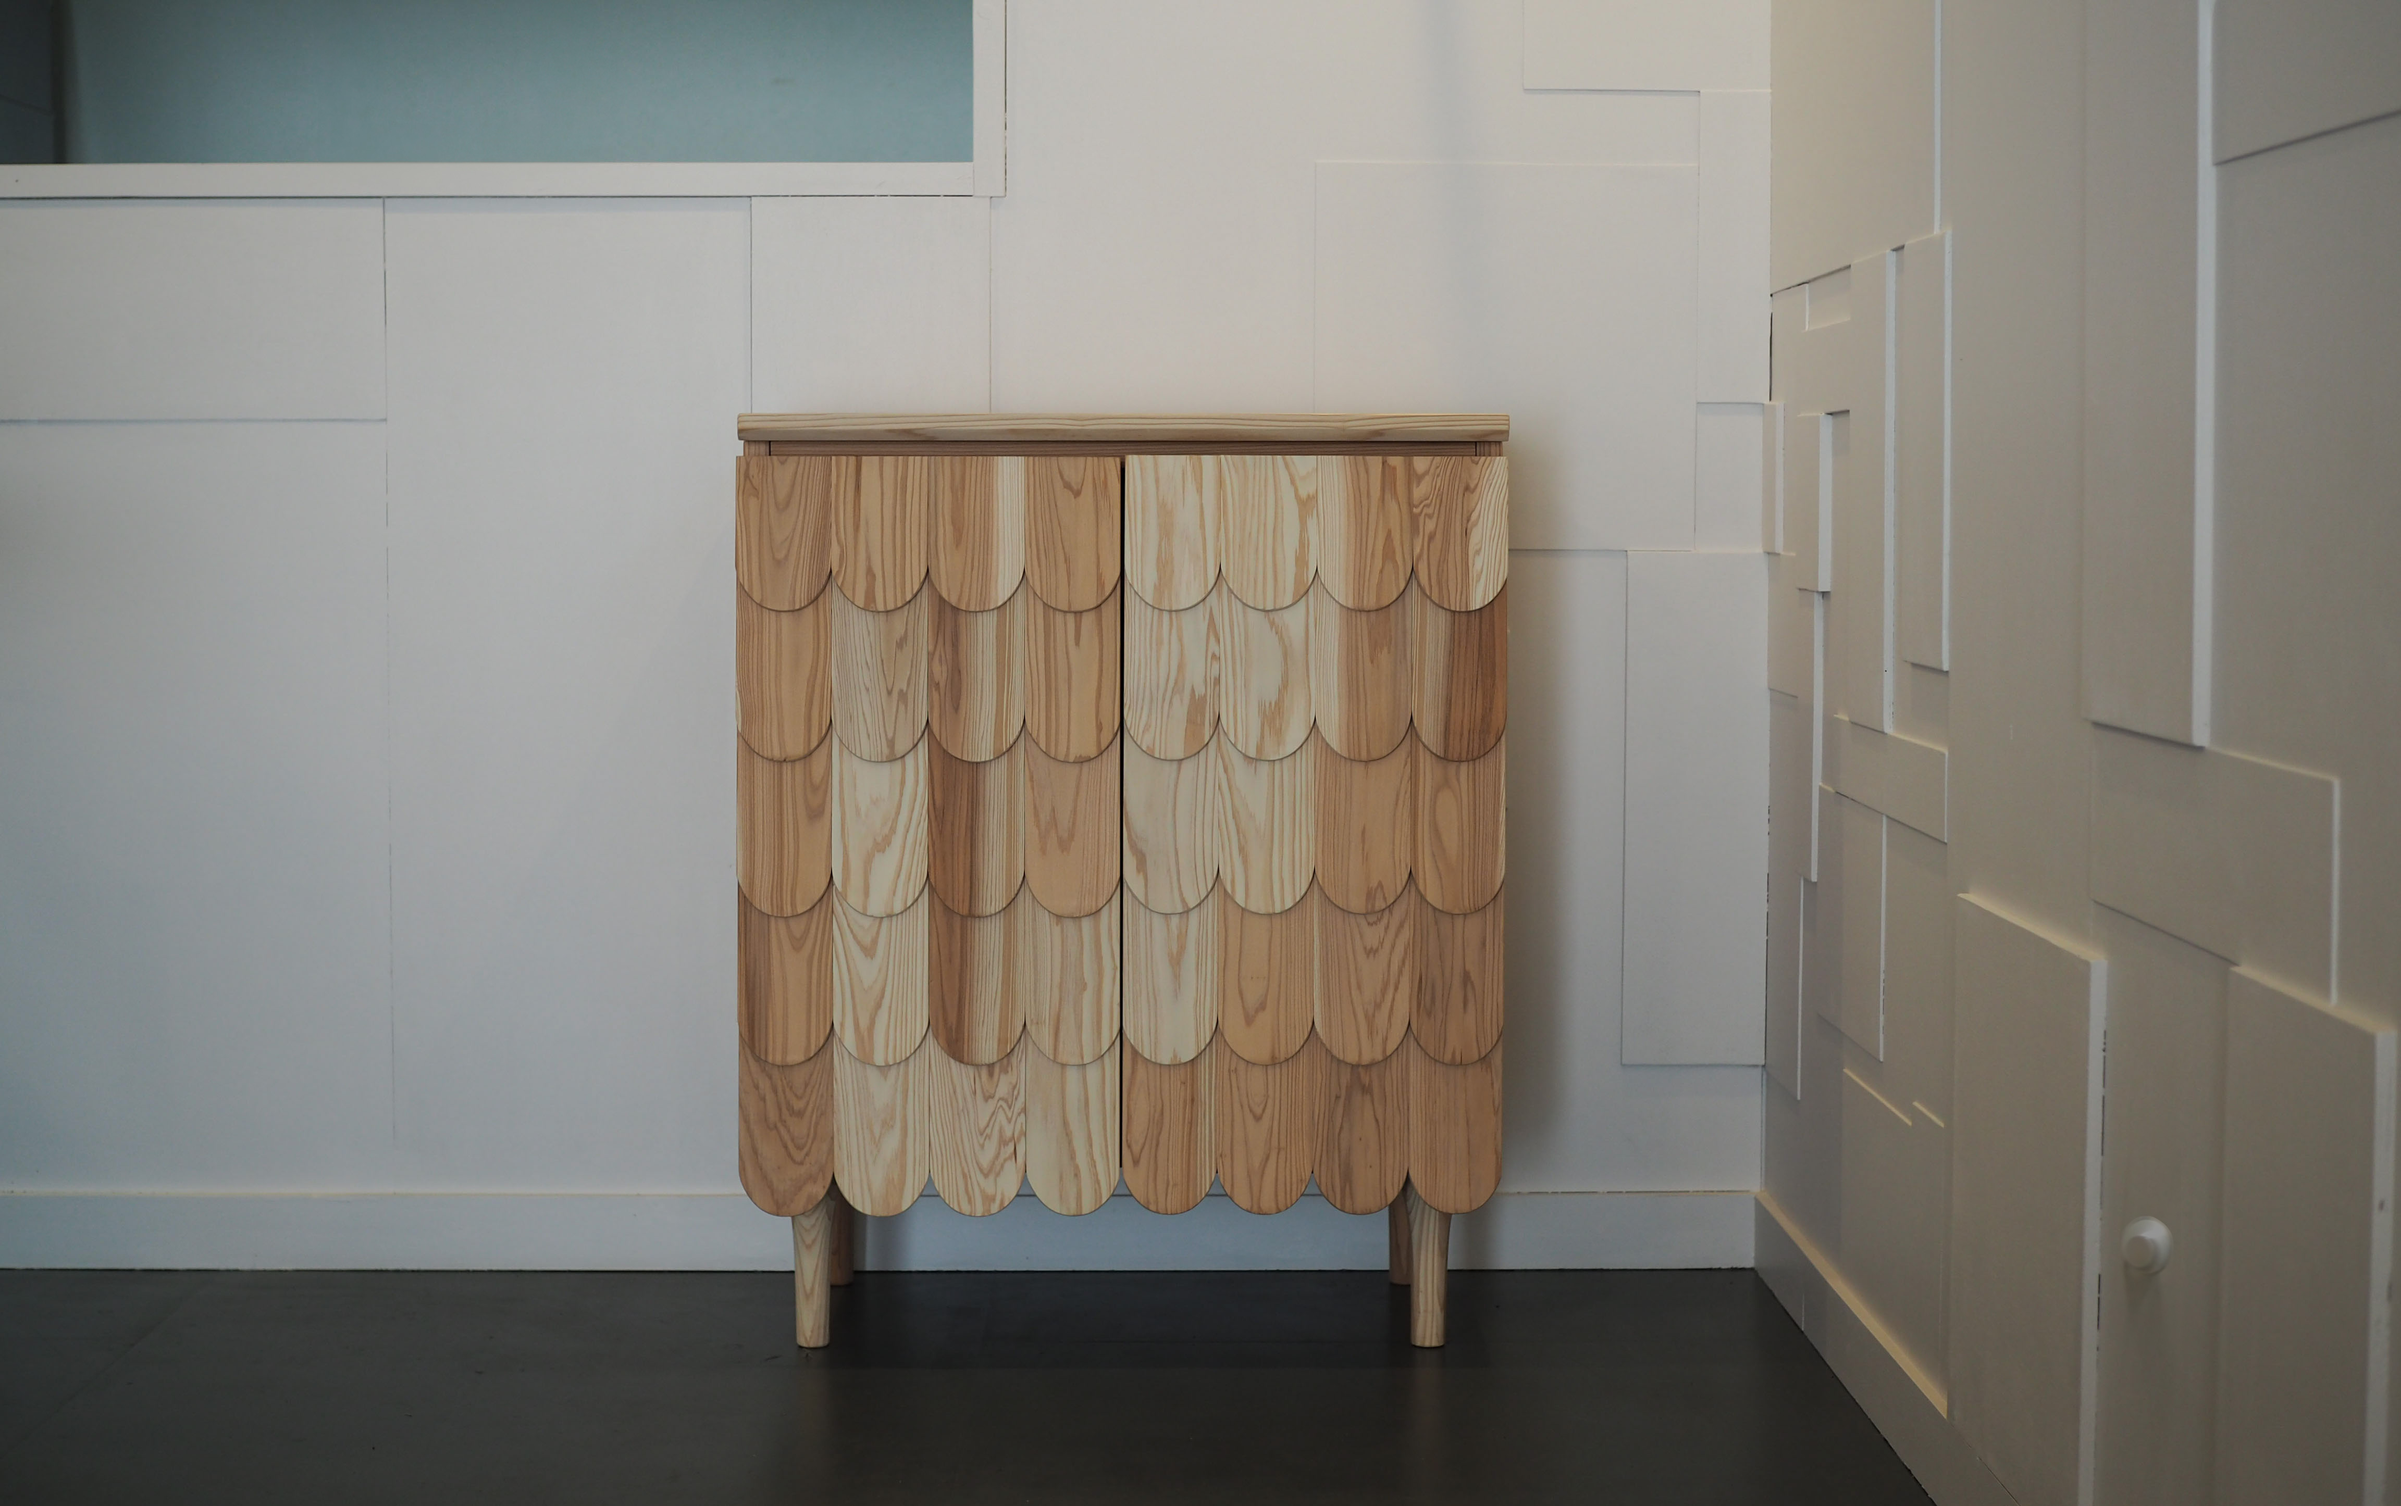
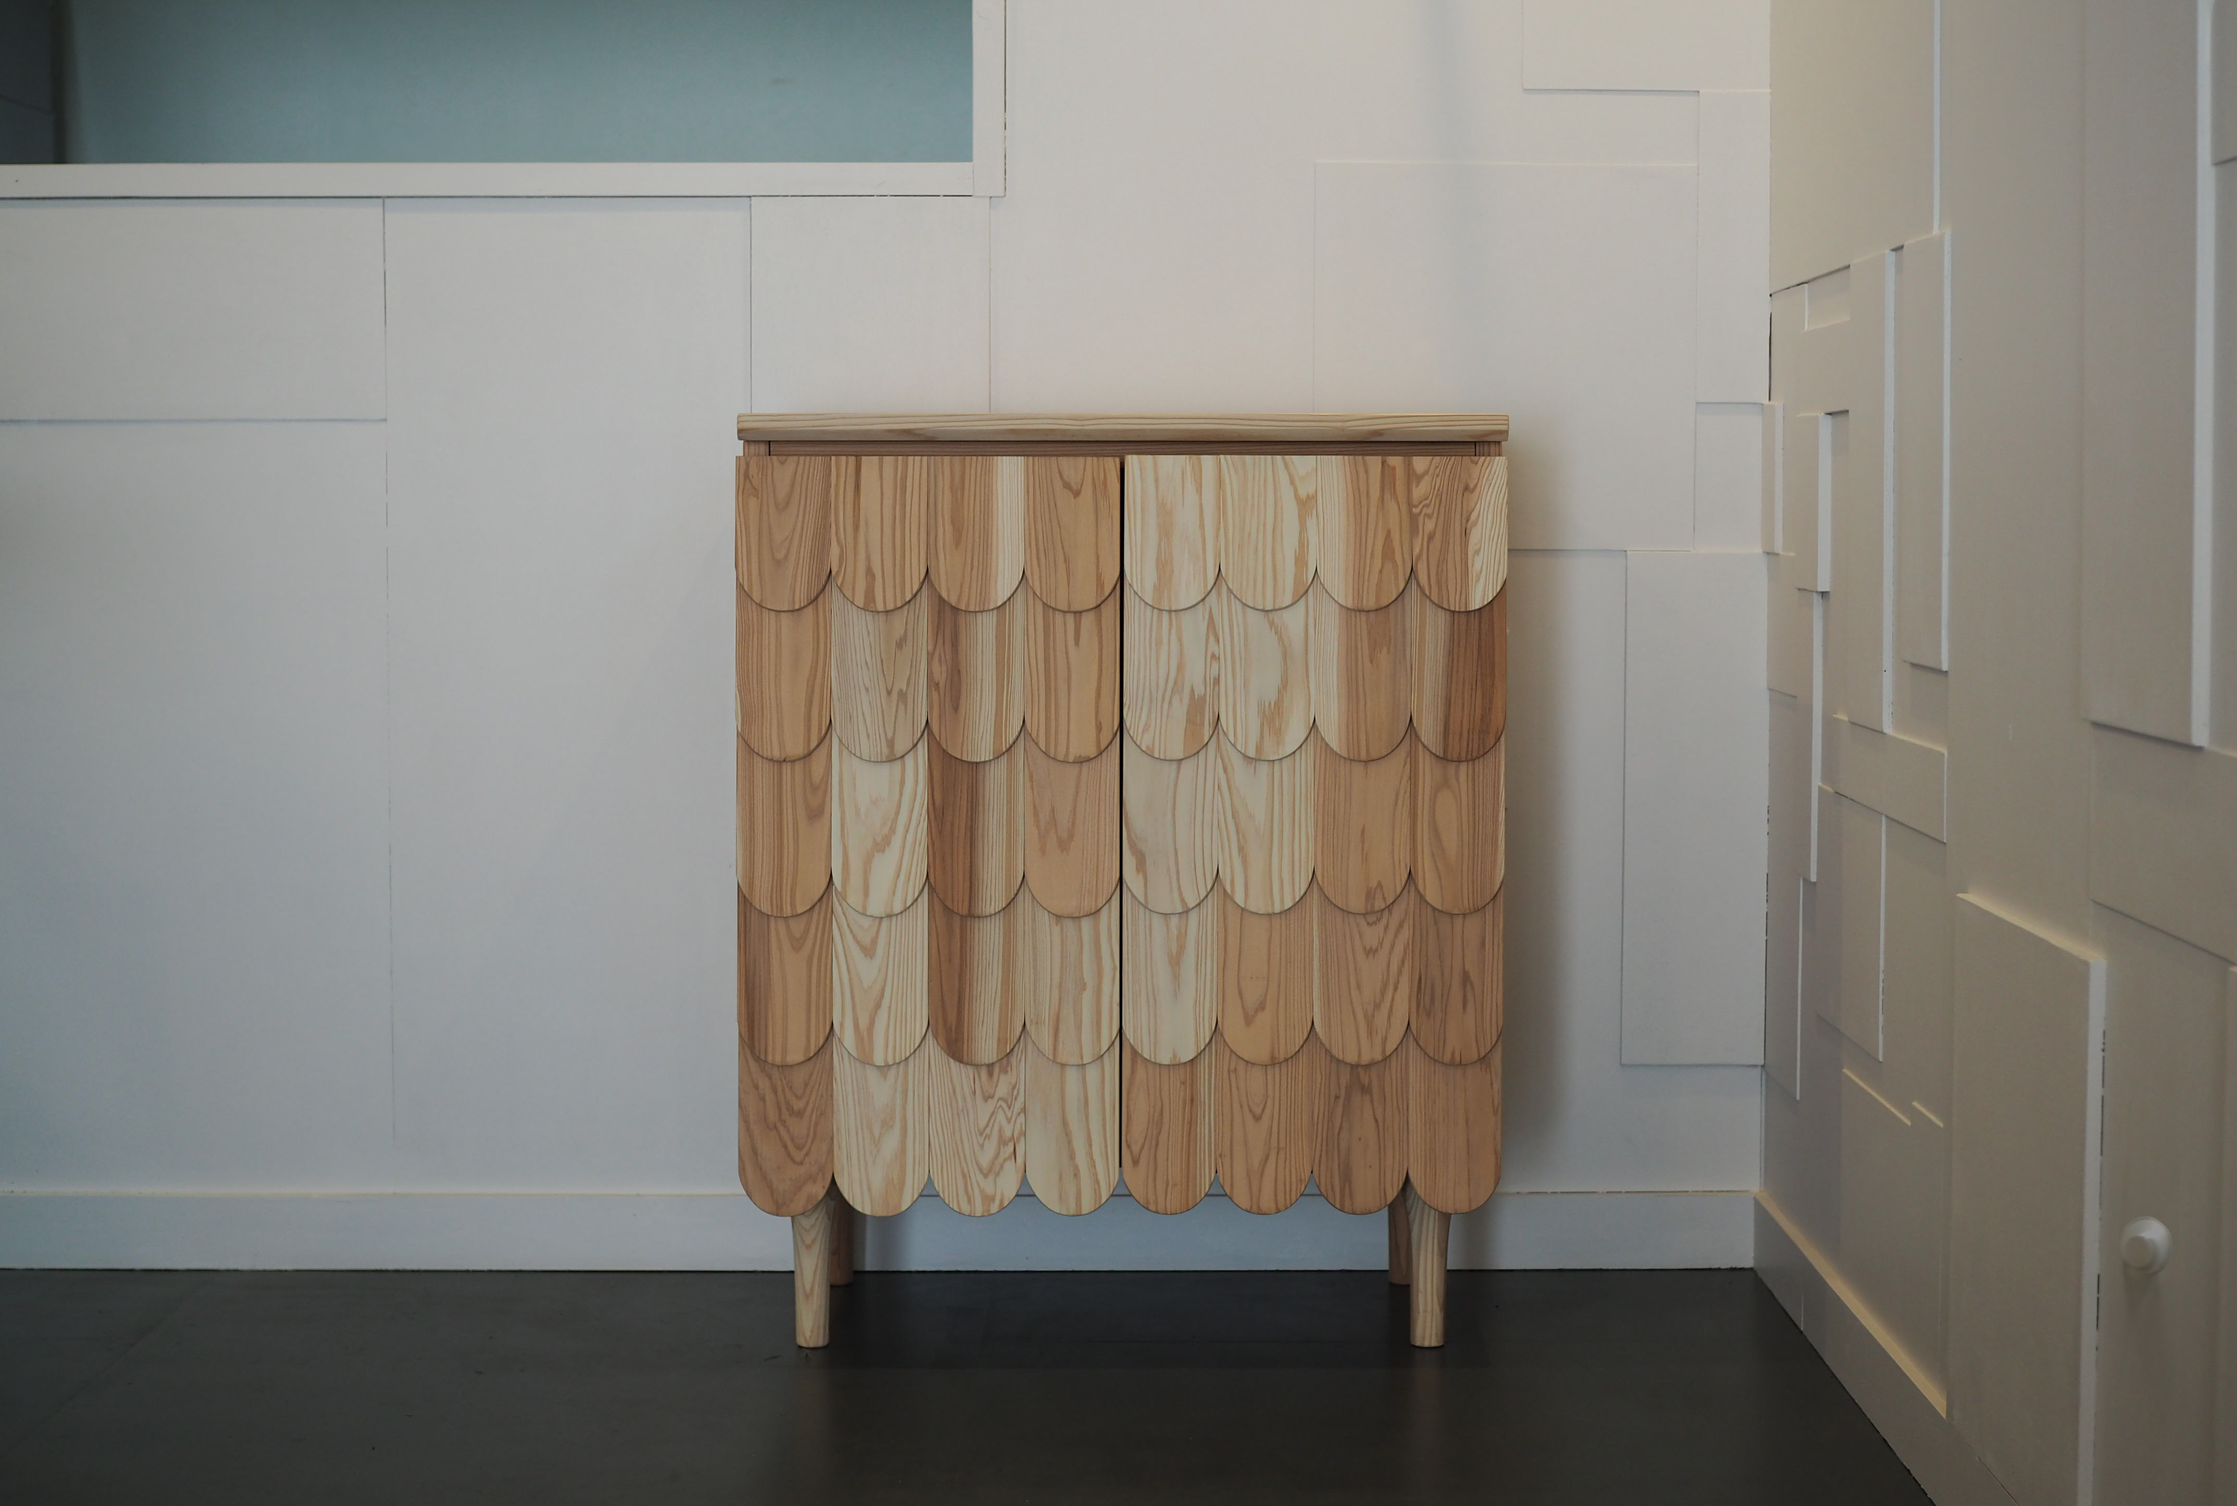
Update hero image and top page text

Changed region(s): [[0.2808, 0.0, 1.0, 1.0], [0.4056, 0.0, 0.4368, 0.1245], [0.9984, 0.4979, 1.0, 0.529]]

diff --git a/index.html b/index.html
@@ -311,7 +311,7 @@
         }
         
         .category-image.furniture {
-            background-image: url('./assets/images/top.jpg');
+            background-image: url('./assets/images/furniture_hero.jpg');
         }
         
         .category-content {
@@ -543,7 +543,6 @@
     <section class="hero">
         <div class="hero-content">
             <h1>素材の静けさを暮らしのそばに</h1>
-            <p>303｜大谷石や無垢材を用いた暮らしの道具</p>
         </div>
     </section>
 
